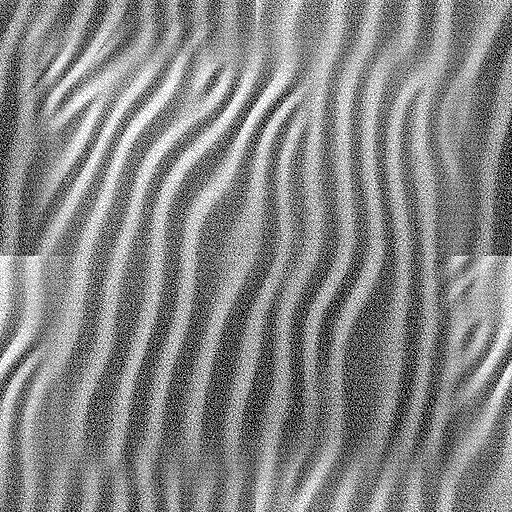
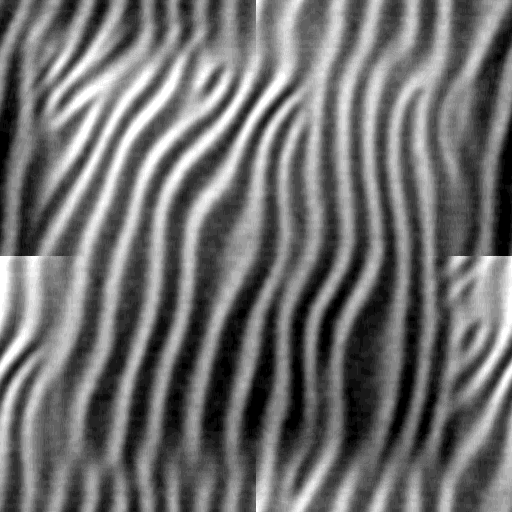
the-island: fire 36 — #135 vistas (AAA-B1): held first sightings + composed spawns + goldens
- beginVista/releaseVista: 2.4s cinematic hold on first arrival per stratum, any input skips
- LEVELS spawns as composition: L2 two meters seaward (fronds frame the light), L3 faces
  the flooded channel (cairn found on the turn), L4 already the shot
- goldens L1-L4 checked into loop/goldens/ for the CI diff set
- #138 refinements: sand heightmap reblurred (moire fix), dunes gated to the beach band

walk 44/44 (vista held+released)

diff --git a/docs/the-island/js/main.js b/docs/the-island/js/main.js
@@ -752,6 +752,7 @@ function tickDive(dt) {
     UI.cinematic(false);
     UI.fadeIn(false);
     setTimeout(() => document.getElementById('curtain').classList.remove('white'), 800);
+    beginVista(W.level);   // #135: the first sighting holds (re-locks briefly; skippable)
     // the same island, more drowned each time — the sameness is the wound
     UI.whisper({
       2: 'The same sand. The same sky.',
@@ -956,6 +957,31 @@ function revealFinaleCoda(kind, delayMs) {
   el.innerHTML = finaleCoda(kind, s).map((l) => `<div>${l}</div>`).join('');
   setTimeout(() => el.classList.add('show'), delayMs);
 }
+
+// #135 (AAA-B1): the VISTA — a stratum's first sighting is a composed, HELD frame:
+// cinematic bars + locked control for 2.4s (any input skips), so the arrival lands
+// before movement does. The spawn pose IS the composition (LEVELS rows carry it);
+// this holds the shot exactly once per stratum. L1's vista is the intro itself.
+let vistaT = null;
+function releaseVista() {
+  if (vistaT == null) return;
+  vistaT = null;
+  player.locked = false;
+  interact.enabled = true;
+  UI.cinematic(false);
+}
+function beginVista(lv) {
+  if (lv < 2 || MODE !== 'play' || W.onceKeys?.includes('vista' + lv)) return;
+  (W.onceKeys = W.onceKeys || []).push('vista' + lv);
+  save(player);
+  player.locked = true;
+  interact.enabled = false;
+  UI.cinematic(true);
+  vistaT = 0;
+  addEventListener('pointerdown', releaseVista, { once: true });
+  addEventListener('keydown', releaseVista, { once: true });
+}
+addDrive(() => vistaT != null, (dt) => { vistaT += dt; if (vistaT > 2.4) releaseVista(); });
 
 // ---------------- the finale ----------------
 function startFinale() {
@@ -1556,6 +1582,7 @@ player.onFootstep = (kind, pos) => {
       if (n >= 4) W.regions.l4seen = true;
       player.spawn(new THREE.Vector3(L.spawn.pos[0], 0, L.spawn.pos[2]), L.spawn.yaw, L.spawn.pitch);
       save(player);
+      beginVista(n);   // #135: instant jumps get the held first-sighting too (once)
       return { level: n, id: L.id, region: L.region, tide: L.tide, encounter: L.encounter };
     },
     dive: (instant = false) => {                       // the missing counterpart to ascend()

diff --git a/docs/the-island/js/world.js b/docs/the-island/js/world.js
@@ -199,8 +199,8 @@ const ERA_CASTS = [
 export const LEVELS = [
   null,
   { id: 'surface',  era: { key: 'lastday',    name: 'the last day' },        region: null,       spawn: { pos: [4, 0, -104],      yaw: 2.19, pitch: 0.02 },  tide: 1.0,  encounter: 'songbird' },
-  { id: 'shallows', era: { key: 'arrival',    name: 'the arrival years' },   region: 'region2',  spawn: { pos: [4, 0, -104],      yaw: 2.19, pitch: 0.02 },  tide: 1.35, encounter: 'tideFigure' },
-  { id: 'midwater', era: { key: 'inspection', name: 'the inspection years' }, region: 'region3', spawn: { pos: [90, 0, 30],       yaw: 3.7,  pitch: -0.05 }, tide: 1.65, encounter: 'watcher' },
+  { id: 'shallows', era: { key: 'arrival',    name: 'the arrival years' },   region: 'region2',  spawn: { pos: [1.5, 0, -105.5],  yaw: 2.19, pitch: 0.03 },  tide: 1.35, encounter: 'tideFigure' },   // #135: two meters seaward — the fronds frame the lighthouse instead of walling it
+  { id: 'midwater', era: { key: 'inspection', name: 'the inspection years' }, region: 'region3', spawn: { pos: [90, 0, 30],       yaw: 1.32, pitch: -0.07 }, tide: 1.65, encounter: 'watcher' },   // #135: arrive facing the flooded channel — buoy, drowned gap, the far light; the cairn is found on the turn
   { id: 'source',   era: { key: 'lastwinter', name: 'the last winter' },     region: 'region4',  spawn: { pos: [-82.8, 0, -41.4], yaw: 2.19, pitch: 0.02 },  tide: 1.9,  encounter: 'keeper' },
 ];
 

diff --git a/docs/the-island/js/terrain.js b/docs/the-island/js/terrain.js
@@ -426,9 +426,11 @@ export function buildTerrain() {
         float roll = vnoise(vLXZ * 1.1) - 0.5;               // soft ~0.9m undulation
         float Hb   = rip1 * 0.5 + rip2 * 0.22 + roll * 0.5;
         // #138: ORGANIC ripples (Bender heightmap, world-XZ sample — no UV, no seams)
-        // supplant the synthetic sines on the sand once decoded; same Mikkelsen path.
+        // supplant the synthetic sines on the BEACH BAND only (vTerH < ~3m); higher
+        // ground keeps the old soft roll — dunes belong to the shore, not the meadow.
         float texH = texture2D(uSandH, vWPos.xz * 0.16).r - 0.5;
-        Hb = mix(Hb, texH * 2.4 + roll * 0.35, uSandOn);
+        float sandW = 1.0 - smoothstep(2.2, 3.4, vTerH);
+        Hb = mix(Hb, texH * 2.0 + roll * 0.35, uSandOn * sandW);
         float bDist = 1.0 - smoothstep(45.0, 130.0, length(vViewPosition));
         // SLOPE-AWARE ROCK RELIEF (#36): above ~0.5 baked slope the bump SWAPS (never
         // stacks — same one evaluation) from wind-ripple sand to a cliff language:

diff --git a/docs/the-island/loop/LOG.md b/docs/the-island/loop/LOG.md
@@ -12,6 +12,40 @@ Newest entry first. Every iteration appends one entry using this template:
 
 ---
 
+## loop-fire 36 — 2026-08-07 — #135: the vistas — every arrival gets its frame (AAA-B1)
+
+**Shipped:** a stratum's first sighting is now a composed, HELD frame: cinematic
+bars + locked control for 2.4s, any input skips, exactly once per stratum
+(once-keys vista2/3/4; L1's vista is the intro itself). The spawn pose IS the
+composition, so LEVELS rows now carry directorial intent: **L2** moved two meters
+seaward so the kelp fronds FRAME the distant lighthouse down the drowned avenue
+instead of walling it; **L3** turned around entirely — you now arrive facing the
+flooded channel (the buoy's water, the far light, the capitals' spires on the steel
+horizon — exactly where the breach is about to happen), and the cairn is found on
+the turn, which is better fragment staging anyway; **L4** was already the shot (the
+model table under the lamp shaft — untouched). Goldens for all four checked into
+loop/goldens/ (the CI diff set #139 will consume).
+
+**Refinements en route (the #138 surfaces under direction):** the sand heightmap's
+fine grain read as a moiré carpet at grazing mid-distance — REBLURRED (gaussian
+2.6 at 512²; the ~0.6m dunes survive, the sub-5cm grain dies, 219KB→45KB); and the
+dunes are now GATED to the beach band (vTerH < ~3m smoothstep) — the meadows and
+bluff-tops keep the old soft roll. Dunes belong to the shore, not the moor.
+
+**Evidence:** golden_L2 (fronds framing the light), golden_L3 (steel horizon with
+the far group), golden_L4 (the chart room), beach check (organic ripple field at
+raking dawn, GPU 3.7ms settled). Vista states verified live (locked mid-hold,
+released after, once-keys persisted). WALK PASS **44/44** (new: vista held+released
+across the real dive). No control theft beyond 2.4s; skippable by any input.
+
+**Debt:** goldens carry the era light at fixed times — the CI diff (#139) must pin
+W.time exactly as the capture script does.
+
+**Next tick suggestion:** #137 the leitmotif — the last B child I can run solo;
+then Phase C opens with the harness moving into the repo (#139).
+
+---
+
 ## loop-fire 35 — 2026-08-07 — #138: TRUE relief from Bender — and the beach figure that shouldn't have been there (AAA-B4)
 
 **Shipped:** the normal-relief pass, generated on Bender and wired end-to-end. Three
